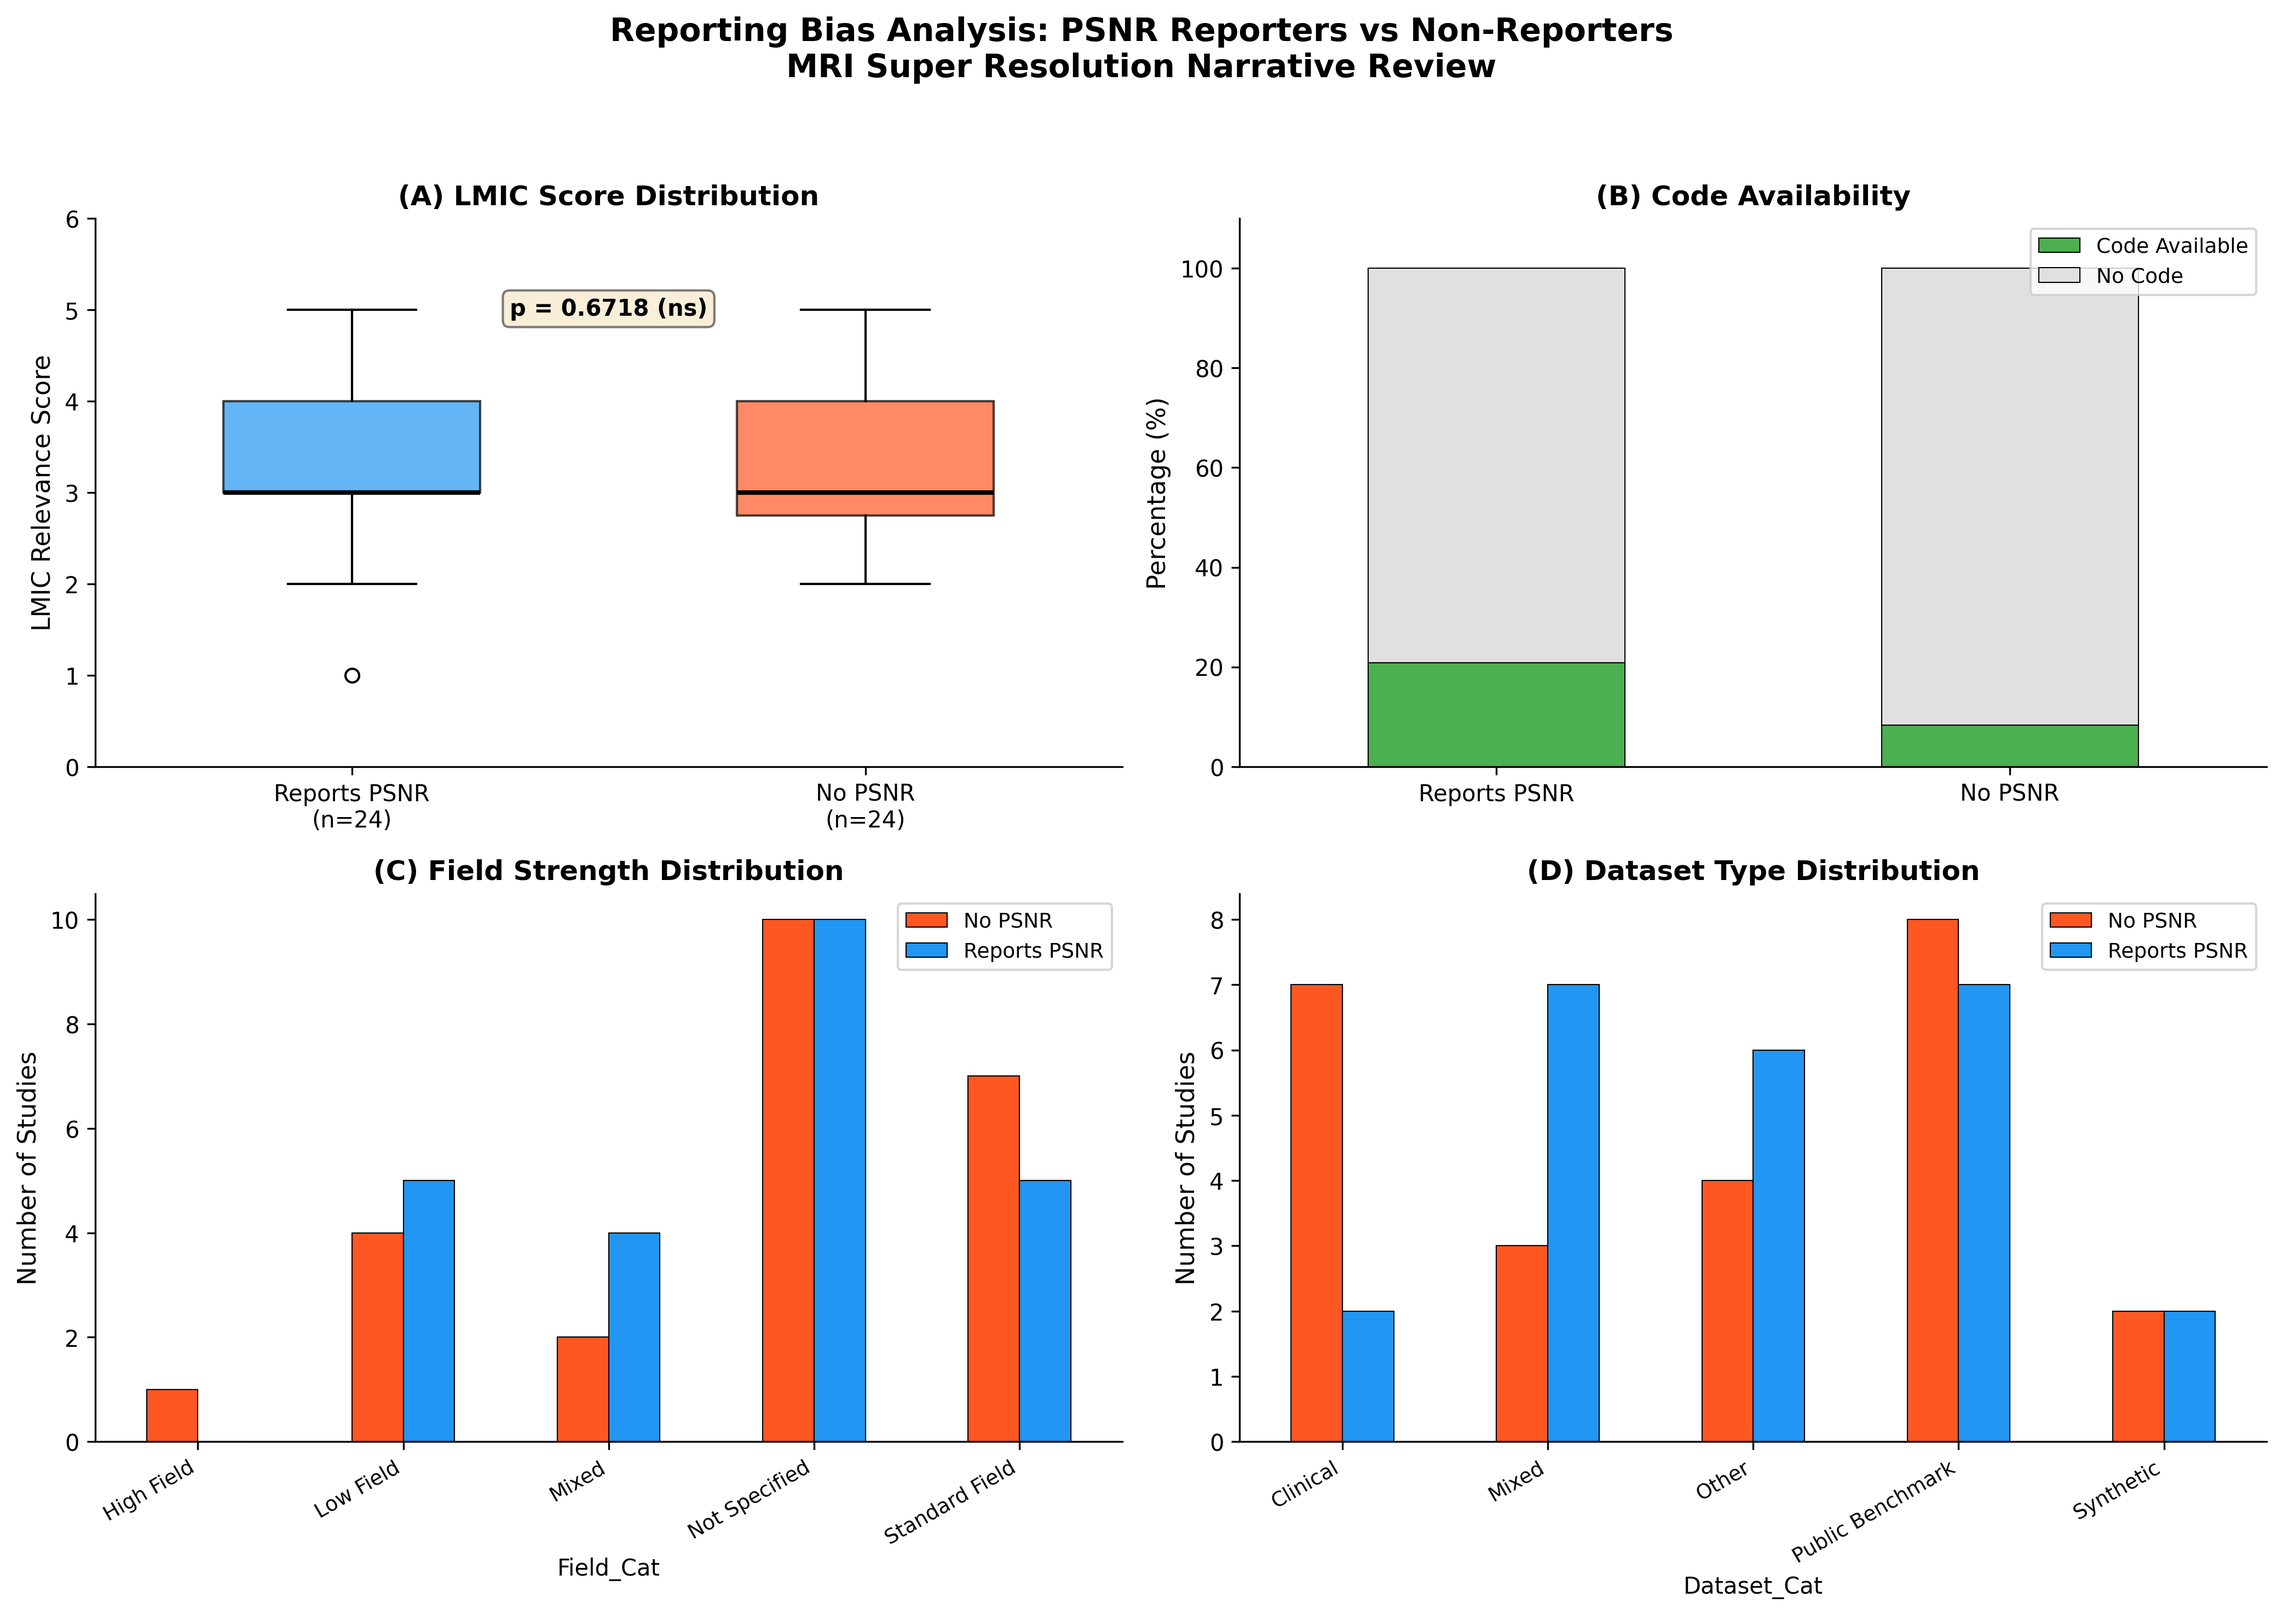
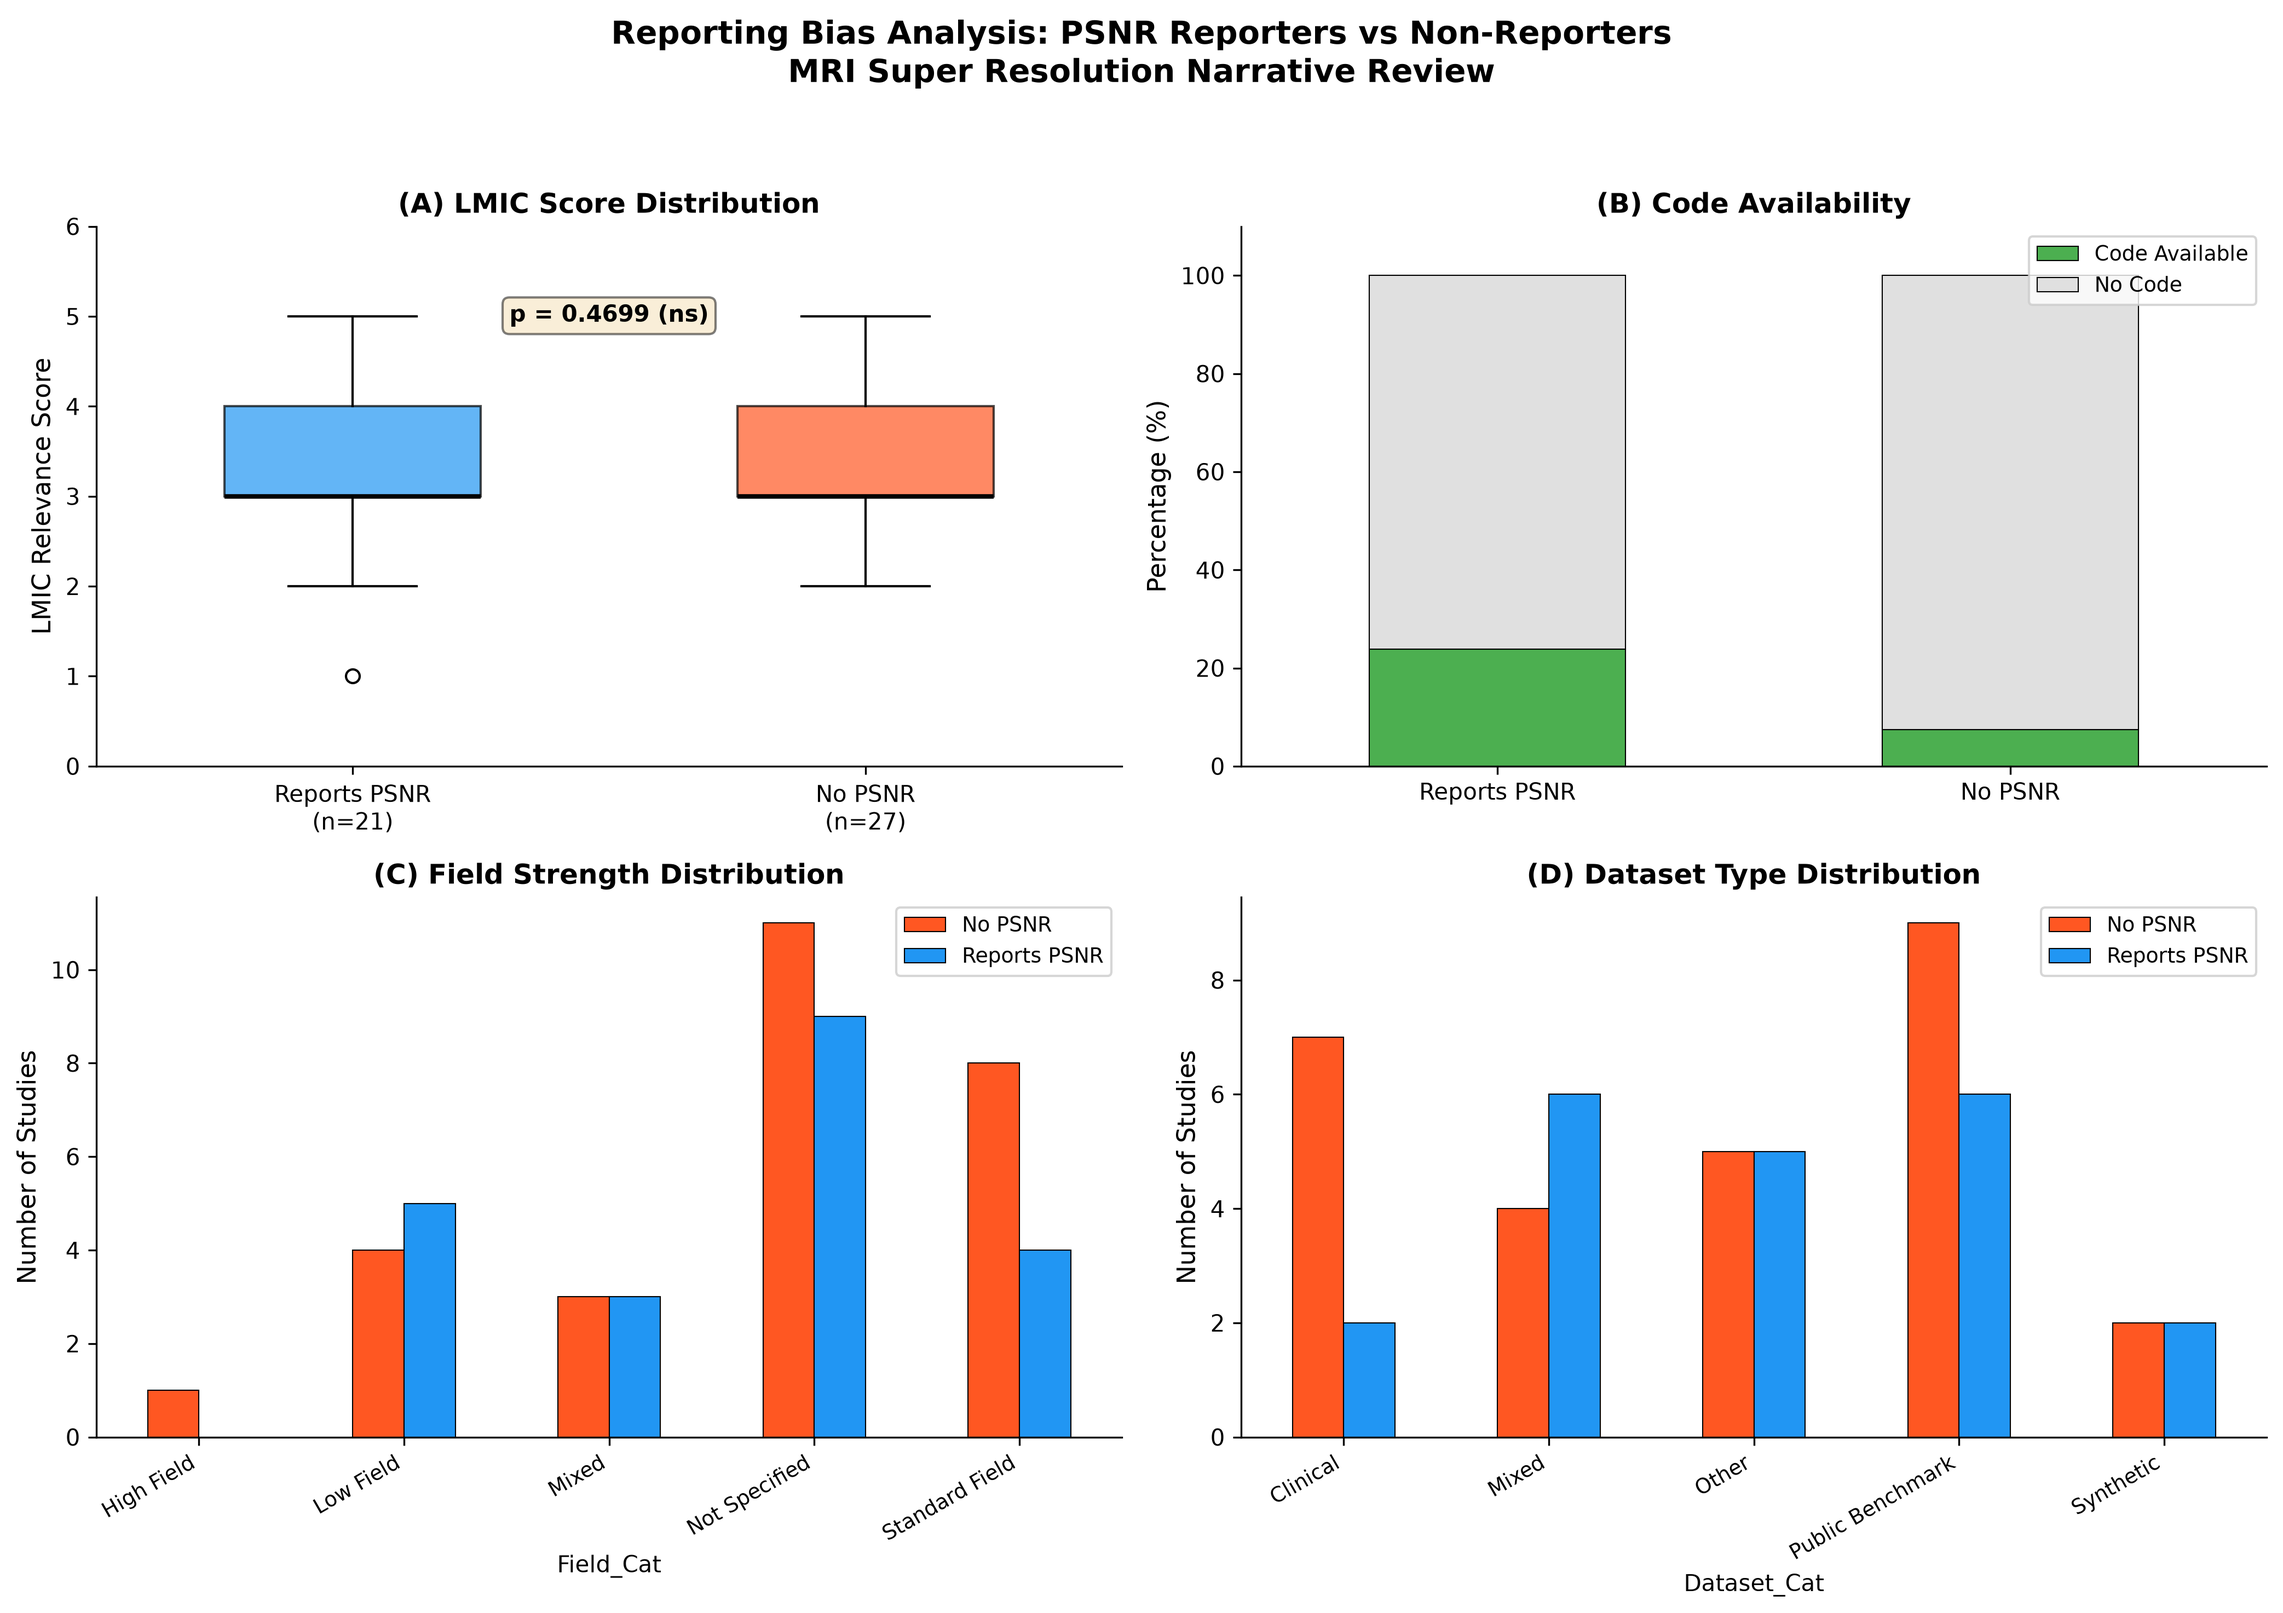
Treat free-text "Not reported ..." metric values as non-reporting
has_metric_reported() returned 1 for any string outside a short exact
list, so PSNR_Value entries such as "Not reported (uses PVNR ...)",
"Not reported. Paper uses MAE instead of PSNR." and "Not explicitly
reported in the provided text ..." counted as reporting PSNR (Papers
36, 40, 42). Values starting with "not reported" or "not explicitly
reported" (case insensitive) now return 0. A bare "Reported" (Paper 23)
still returns 1, since the flag measures reporting rather than whether a
value could be parsed.

Module 2 rerun: PSNR reporters vs non-reporters 21 vs 27 (was 24 vs 24).
LMIC Relevance Score: U=317.0, p=0.470, r=-0.118 (was U=308.0,
p=0.672, r=-0.069); still not significant.

diff --git a/scripts/analysis/statistical/utils.py b/scripts/analysis/statistical/utils.py
@@ -78,7 +78,18 @@ def normalize_low_field_mentioned(val):
     return 1 if str(val).lower().strip() in ['yes', 'true', '1'] else 0
 
 def has_metric_reported(val):
+    """Return 1 when the extraction records that the paper reports the metric.
+
+    Free-text negatives such as "Not reported (uses PVNR ...)", "Not reported.
+    Paper uses MAE instead of PSNR." or "Not explicitly reported in the
+    provided text ..." are non-reporting, so any value starting with "not
+    reported" or "not explicitly reported" (case insensitive) returns 0.
+    A bare "Reported" (extractor confirmed the metric is reported but did not
+    copy the value) still returns 1: this flag measures reporting, not
+    whether a numeric value could be parsed.
+    """
     if pd.isna(val): return 0
     val_str = str(val).lower().strip()
-    if val_str in ['not reported', 'n/a', 'na', '', 'not reported.']: return 0
+    if val_str in ['n/a', 'na', '', 'nan']: return 0
+    if val_str.startswith(('not reported', 'not explicitly reported')): return 0
     return 1
